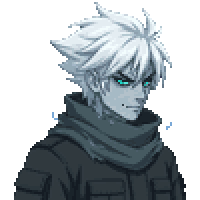
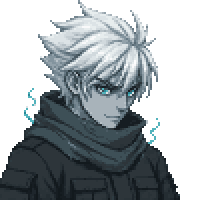
주인공 대화 초상화를 PixelLab으로 다시 만듦
- 기본 표정: 예전 초상화를 기준 그림으로 넣어 같은 인물을 다시 그린 시안 7장 중 하나
- 결의 표정: 기본 표정의 얼굴만 편집해 붙임
- 이제 대화 초상화 8장이 모두 PixelLab 생성물. 예전 그림은 raw_gen/n09_*_gemini*.png 로 보관

diff --git a/tools/apply_pixellab_portraits.py b/tools/apply_pixellab_portraits.py
@@ -2,7 +2,8 @@
 
 은신처 대화창의 초상화 8장(주인공·정비사·보관인·기록관 x 표정 2)을 새 몸 그림과 같은 화풍으로 맞춘다.
 원본: assets/sprites/pixellab/portraits_v6/raw_gen/<인물>_<1|2>.png (100x100, 화면에서는 2배 = 200x200)
-  - <인물>_1 = 기본 표정. 주인공은 예전 초상화(Gemini G04 원화를 줄인 것)를 그대로 쓰고, 이 그림이 NPC 초상화의 화풍 기준이다.
+  - <인물>_1 = 기본 표정. 주인공도 2026-11-26부터 PixelLab으로 새로 만든 그림이다(사용자 요청). 그 전의 주인공 초상화
+    (Gemini G04 원화를 줄인 것, raw_gen/n09_1_gemini.png)는 NPC 초상화와 새 주인공 초상화의 화풍·디자인 기준으로 썼다.
   - <인물>_2 = 표정만 글로 편집한 것(edit_image_pro_flash). 편집본은 그림 전체가 조금씩 다시 그려지고 색 수도 줄어서,
     그대로 번갈아 보이면 옷·머리까지 출렁인다.
 하는 일: 표정 2는 **기본 표정 그림에 얼굴 영역(FACE)만** 편집본에서 가져와 붙인다(색은 기본 표정의 색으로 다시 칠한다).
@@ -24,7 +25,7 @@ RAW = os.path.join(ROOT, 'assets', 'sprites', 'pixellab', 'portraits_v6', 'raw_g
 DST = os.path.join(ROOT, 'assets', 'portraits')
 SCALE = 2
 # 얼굴 영역 (x0, y0, x1, y1), 100x100 기준: 눈썹·눈·입이 들어가는 사각형. 머리카락·옷은 건드리지 않는다
-FACE = {'n09': (48, 30, 80, 64), 'mechanic': (17, 24, 50, 60), 'keeper': (14, 20, 48, 66), 'archivist': (20, 24, 54, 64)}
+FACE = {'n09': (36, 30, 78, 72), 'mechanic': (17, 24, 50, 60), 'keeper': (14, 20, 48, 66), 'archivist': (20, 24, 54, 64)}
 
 
 def load(name):

diff --git a/docs/PROGRESS.md b/docs/PROGRESS.md
@@ -28,7 +28,7 @@
 5. [ ] **(사용자, 제출 전 필수)** `docs/ASSETS.md` 맨 끝 표의 빈칸(이미지 생성 도구의 모델명·이용 조건). **주인공 동작을 PixelLab 체험판 계정으로 만들었다: 체험판 생성물을 공개 영상·저장소에 써도 되는지 확인.** 채워지면 크레딧 문구를 고친다.
 6. [x] **이벤트 방 그림**: 떠돌이 죄수·헤이즈 샘을 PixelLab v6 그림으로 바꿈(11/25). Codex T51·T52는 격자가 달라 게임에 쓰지 않았다. **앞으로 캐릭터 옆에 서는 도트 그림은 PixelLab으로 만든다(사용자 결정)**. 은신처 NPC 셋(정비사·보관인·기록관)도 11/25에 PixelLab으로 바꿈. 일반 적 5종(무당·쥐·감시 눈·망령·수레)도 11/25에 바꿈. 아크·헤이즈 심장도 11/25에 바꿈. 주인공의 남은 두 세트(궁극기 시전·맨손)도 11/25에 연결. **게임이 그리는 캐릭터 그림은 모두 PixelLab v6.** 대화 초상화도 11/25에 새 몸 그림에 맞춤. 남은 것: 발표 그림을 한 번에 다시 찍기.
 7. [ ] **(사용자) 효과음 검토**: 연습장 F 메뉴 → '효과음 듣기'. 표시한 소리부터 Claude Code가 다시 만든다(`sfx_review.json`).
-8. [ ] **(사용자 결정)** 주인공 이름(화면에는 'N-09'만 나온다). 대화 초상화는 11/25에 PixelLab으로 새 몸 그림에 맞췄다. Gemini G04 초상화 5장은 11/26 사용자 결정으로 게임에 쓰지 않고 원화로 보관(지금 초상화 유지).
+8. [ ] **(사용자 결정)** 주인공 이름(화면에는 'N-09'만 나온다). 대화 초상화는 11/25~26에 여덟 장 모두 PixelLab으로 만들었다(주인공은 11/26). Gemini G04 초상화 5장은 11/26 사용자 결정으로 게임에 쓰지 않고 원화로 보관(지금 초상화 유지).
 9. [ ] **(사용자)** 실행 파일을 파이썬 없는 PC에서 켜 보기, 게임패드가 있으면 몇 방.
 10. [ ] **(Claude Code, 여유가 있으면)** plan_v8 4-5 색 정리, 벽 튕김을 다른 무기에도, 움직이는 발판·부서지는 발판. UI 개편(C안)은 11/25에 G06 부품을 게임에 적용함(HUD·메뉴 공통·증강 카드). 남은 UI 일: 사용자가 직접 보고 고칠 곳 말해 주기, 안 쓰는 예전 UI 그림 정리, 발표 그림은 **변경이 다 끝난 뒤 한 번에** 다시 찍는다(사용자 11/25: 또 바뀔 수 있으니 그때 같이. `demo3_crasher_fight`는 크래셔가 화면 밖이라 그때 보이게). v6 새 화풍은 G01 시안이 오면. **이펙트**: 11/26에 적·보스 쪽 사각형 이펙트를 구운 시트로 바꿈. 같은 날 주인공 쪽(탄환·총구 섬광·돌진 궤적·도탄 잔상)도 바꿈. 남은 것은 보스 충격파 시트(shockwave, 예전 방식)와 아이콘 종류(표식·조준 꺾쇠).
 
@@ -394,3 +394,4 @@
 2026-11-26 [Claude Code] 주인공 쪽 사각형 이펙트 교체: 쌍권총 탄환(보통·큰 한 발·파편)과 총구 섬광을 32방향 구운 시트로, 건틀릿 돌진 궤적과 도탄 사슬 잔상을 대시 궤적 그림(DashStreak)으로, 섬광 베기 예고 줄을 둥근 점으로. 연습장 실제 창에서 전후 비교(shots/review/fx4_player_before·after.png). 판정·수치는 그대로 / tools/make_fx2.py, src/(effects, weapon).py, assets/effects/(bullet*, muzzle*), assets/light/, tests/test_pixel_assets.py, .claude/skills/haze-fx/SKILL.md, docs/(PROGRESS, DECISIONS, ASSETS).md
 2026-11-26 [Claude Code] Gemini G04 대화 초상화 5장 검토: 합격 기준 통과, 게임 크기(100px·32색·2배)로 줄여 지금 초상화와 비교(shots/review/g04_game_size.png). 추천은 지금 초상화 유지 + G04는 원화로 보관, 적용 여부는 사용자 결정 대기 / docs/gemini/(TASKS.md, tasks/G04_portraits.md), docs/PROGRESS.md, assets/sprites/gemini/portraits_v1/(Gemini 파일 커밋)
 2026-11-26 [Claude Code] G04 적용 여부 결정 기록: 사용자가 지금 초상화 유지를 고름, G04 새 5장은 원화로 보관 / docs/gemini/(TASKS.md, tasks/G04_portraits.md), docs/(DECISIONS, PROGRESS).md
+2026-11-26 [Claude Code] 주인공 대화 초상화 2장을 PixelLab으로 다시 만듦(사용자 요청): 기본 표정 시안 7장 중 b_s3 선택, 결의 표정은 얼굴만 편집, 실제 대화창에서 두 표정 확인. 54회 사용 / assets/portraits/n09_1~2.png, assets/sprites/pixellab/portraits_v6/(hero_gen/, raw_gen/, GENERATION_LOG.md), tools/apply_pixellab_portraits.py, docs/(PROGRESS, DECISIONS, ASSETS, image_prompts).md

diff --git a/assets/sprites/pixellab/portraits_v6/GENERATION_LOG.md b/assets/sprites/pixellab/portraits_v6/GENERATION_LOG.md
@@ -37,3 +37,30 @@ draw a different person in exactly this style." 세 장 모두 한 번에 통과
 
 적용: `python tools/apply_pixellab_portraits.py` -> `assets/portraits/<인물>_<1|2>.png`(200x200, 최근접 2배, 2px 격자 100%).
 확인: `shots/review/portraits_v6_final.png`(여덟 장 + 주인공 편집 원본), `portraits_v6_ingame.png`(대화창 세 장).
+
+## 주인공 초상화를 PixelLab으로 다시 (2026-11-26, 사용자: "주인공 표정들 pixellab으로 npc 제작한 것처럼 주인공 제작 다시 하자")
+그 전까지 주인공 기본 표정은 Gemini G04 원화를 줄인 것이었다(`raw_gen/n09_1_gemini.png`, 결의는 그 그림의 PixelLab 편집 `n09_2_gemini_edit.png`).
+
+### 기본 표정 시안 7장 (42회: 6회 x 7, `hero_gen/`)
+`create_image_pro_flash`, 100x100, no_background. 설명(공통): Dialogue portrait, head and shoulders bust, three-quarter view facing RIGHT,
+looking slightly down to the right. Prisoner N-09 ...: a lean young man with pale grey-blue skin, wild spiky white hair swept back and up,
+sharp narrow eyes glowing bright teal, calm tired serious expression, mouth closed. ... thick dark charcoal scarf (muffler) ... black padded work
+jacket with chest pockets. A few thin wisps of teal haze rise from the scarf. Muted dark palette ... teal eyes as the only bright colour.
+
+| 파일 | 화풍 기준 | seed | 평가 |
+|---|---|---|---|
+| hero_a_s3 / a_s11 / a_s7 | 정비사 초상화 `raw_gen/mechanic_1.png` | 3 / 11 / 7 | 피부가 갈색·회갈색으로 나와 다른 사람처럼 보임(정비사의 살색이 옮겨 옴). a_s3은 아래에 줄이 생김 |
+| hero_c_s5 / c_s9 | 정비사 초상화, 색 따라 하기 끔(`style_options.color_palette=false`), "very pale bluish-white skin (NOT tanned)" | 5 / 9 | 피부는 희지만 눈빛이 약하고 얼굴이 납작한 선화 느낌 |
+| **hero_b_s3** | 예전 주인공 초상화 `raw/hero_style_100.png`("same character's current portrait. Keep his design ... paint him again with richer pixel-art shading") | 3 | **선택**: 같은 사람으로 보이고(머리 모양·창백한 푸른 피부·빛나는 청록 눈), 머리가 더 크게 잡혀 NPC 초상화와 크기가 맞는다 |
+| hero_b_s11 | 위와 같음 | 11 | 좋음. 머리 왼쪽에 떨어진 점이 있고 얼굴이 더 옆을 봄 (예비) |
+
+배운 것: 다른 인물의 초상화를 화풍 기준으로 넣으면 살색이 따라온다. 같은 인물을 다시 그릴 때는 그 인물의 예전 그림을 기준으로 넣고 "다시 그려라"고 쓴다.
+비교판 `shots/review/hero_portrait_candidates.png`(왼쪽 위가 예전 것), 크게 본 것 `hero_portrait_zoom.png`.
+
+### 결의 표정 (12회: 6회 x 2)
+`edit_image_pro_flash`(method text, 색 고정 끔, 원본 = hero_b_s3): "Change only the facial expression to DETERMINED: he lifts his gaze and looks
+forward instead of down, eyes opened a little wider, eyebrows lowered and drawn together, a faint confident smile ... eyes MUST stay bright glowing teal.
+Keep everything else exactly the same ...". seed 7(**선택**)·seed 3. 두 장 모두 얼굴 밖은 거의 그대로였다(달라진 칸 120·147 중 얼굴 밖 30·34).
+`hero_gen/hero_b_s3_mood_s7.png` -> `raw_gen/n09_2.png`. 얼굴 사각형은 (36,30)-(78,72)로 바꿈(`tools/apply_pixellab_portraits.py`의 FACE).
+확인: 실제 대화창 `shots/review/hero_portrait_ingame.png`(위 기본, 아래 강화를 샀을 때의 결의 + 정비사의 씩 웃음).
+

diff --git a/docs/DECISIONS.md b/docs/DECISIONS.md
@@ -707,3 +707,4 @@
 - 2026-11-26 **실행 중 사각형으로 그리던 이펙트를 구운 시트로 바꾸는 방식 (haze-fx)**: ① 모양이 정해진 것(탄환·파동·낙뢰·결정 조각)은 반복 시트나 한 번 재생 시트. ② 길이가 실행 중에 정해지는 것(드론 불꽃, 심장 손 광선, 오염 장판)은 **이어 붙이는 타일 시트**: 시간·위치의 주기 함수로만 그려 위아래(좌우)와 처음·끝이 맞물리고, 게임은 `effects.draw_beam`·`draw_strip`으로 필요한 만큼 이어 그린다(마지막 칸은 잘라서). ③ 방향이 실행 중에 정해지는 점선·고리(감시 눈 조준선·레이저, 폭발 예고 고리, 소용돌이, 손에 맺히는 빛)는 구운 둥근 점 `effects.draw_dot`(색은 게임이 입힌다, 빛 층 포함). ④ 바닥 예고 띠는 `effects.draw_warn`(끝이 가늘어지는 2px 칸 띠 + 빛). 판정·시간·색 뜻은 그대로다(그림만 바꿈). 새 이펙트를 `draw_rect_color` 덩어리로 그리지 않는다. 남겨 둔 것: 대시 궤적(사용자가 좋아한 그림), 돌진 궤적·탄환 줄기·사슬(방향이 실행 중에 정해지는 선), 표식·조준 꺾쇠(아이콘).
 - 2026-11-26 **주인공 쪽 사각형 이펙트 정리**: 쌍권총 탄환·총구 섬광은 조준 방향이 실행 중에 정해지므로 **32방향을 미리 구운 시트**(`DIR_SHEETS`, 한 줄 = 한 방향, `effects.dir_variant`로 가장 가까운 줄을 고른다. 실행 중 회전 없음, 방향 오차 최대 약 5.6도). 건틀릿 돌진 궤적과 도탄 사슬 잔상은 사용자가 마음에 들어 한 **대시 궤적 그림(DashStreak)** 을 그대로 쓴다(굵기·색만 다르게): 새 그림을 만들지 않고 통과한 화풍을 넓힌다. 섬광 베기의 예고 줄은 둥근 점. 탄환의 판정·속도·사거리는 그대로다. 그대로 둔 것: 사슬(쇠고리 그림), 탄피, 표식 X·조준 꺾쇠(아이콘), 대시 궤적 자체.
 - 2026-11-26 **대화 초상화는 지금 것을 유지 (사용자: "지금 것이 좋네")**: Gemini G04의 NPC 3장·주인공 분노·피격은 검토를 통과했지만 게임에 넣지 않고 `assets/sprites/gemini/portraits_v1/`에 원화로 둔다. 게임의 초상화 8장이 어디서 왔는지: 주인공 기본 표정 `n09_1` = Gemini G04 `hero_portrait.png`를 100px·32색으로 줄여 2배, 주인공 결의 `n09_2` = 그 그림의 얼굴만 PixelLab으로 편집, NPC 6장 = PixelLab으로 새로 생성(화풍 기준이 `n09_1`).
+- 2026-11-26 **주인공 대화 초상화도 PixelLab으로 (사용자: "npc 제작한 것처럼 주인공 제작 다시 하자")**: 바로 위 줄의 "주인공 기본 표정 = Gemini 원화를 줄인 것"은 이 결정으로 바뀌었다. 이제 대화 초상화 8장은 모두 PixelLab 생성물이고, Gemini G04 주인공 초상화는 기준 그림(디자인·화풍)으로만 쓰였다. 시안 7장 중 예전 초상화를 기준으로 다시 그린 것(b_s3)을 Claude Code가 골랐다(예비 b_s11). 같은 인물을 다시 그릴 때는 그 인물의 예전 그림을 기준으로 넣는다: 다른 인물의 그림을 넣으면 살색까지 따라온다.

diff --git a/docs/image_prompts.md b/docs/image_prompts.md
@@ -333,3 +333,5 @@ One tall mature sinister male prison warden final boss. FIRST reference is exact
 2026-11-25 [Claude Code] PixelLab으로 은신처 대화 초상화를 새 몸 그림에 맞춰 다시 만듦(화풍 기준 = 주인공 초상화). 왼쪽을 보는 3/4 흉상: 정비사(올린 머리·이마의 주황 고글·올리브 작업복·회색 의수·어깨 뒤 렌치), 보관인(갈색 두건·회색 수염·등의 자물쇠 궤짝), 기록관(헝클어진 갈색 머리·둥근 안경·귀의 연필·회청색 셔츠·장부). 표정 2는 "표정만 바꾸고 나머지는 그대로"로 글 편집(씩 웃음·걱정·놀람·결의). 전문은 `assets/sprites/pixellab/portraits_v6/GENERATION_LOG.md`.
 
 2026-11-25 [Gemini] G04 대화 초상화 남은 5장 완료(`mechanic_portrait.png`, `keeper_portrait.png`, `archivist_portrait.png`, 추가 표정 `hero_portrait_angry.png`, `hero_portrait_hurt.png`, 각 1024×1024). `hero_portrait.png` 화풍·가슴 위 3/4 구도와 `npc_{mechanic,keeper,archivist}_idle_1.png` 외형을 참조해 애니풍 선화·3단계 셀 음영·마젠타 배경 요청. Antigravity 내장 image-generator(`gemini-3.1-flash-image`). 상세는 docs/gemini/reports/G04.md.
+
+2026-11-26 [Claude Code] PixelLab으로 주인공 대화 초상화를 다시 만듦(사용자 요청: NPC처럼 PixelLab으로). 가슴 위 3/4 오른쪽, 창백한 회청색 피부, 뒤로 솟은 흰 머리, 빛나는 청록 눈, 차분하고 지친 표정, 목을 감싼 짙은 머플러와 검은 작업 재킷, 머플러에서 오르는 청록 기운. 예전 주인공 초상화를 기준 그림으로 넣고 "같은 인물을 다시 그려라". 결의 표정은 얼굴만 글로 편집. 영문 프롬프트·seed·시안 평가는 `assets/sprites/pixellab/portraits_v6/GENERATION_LOG.md`.
